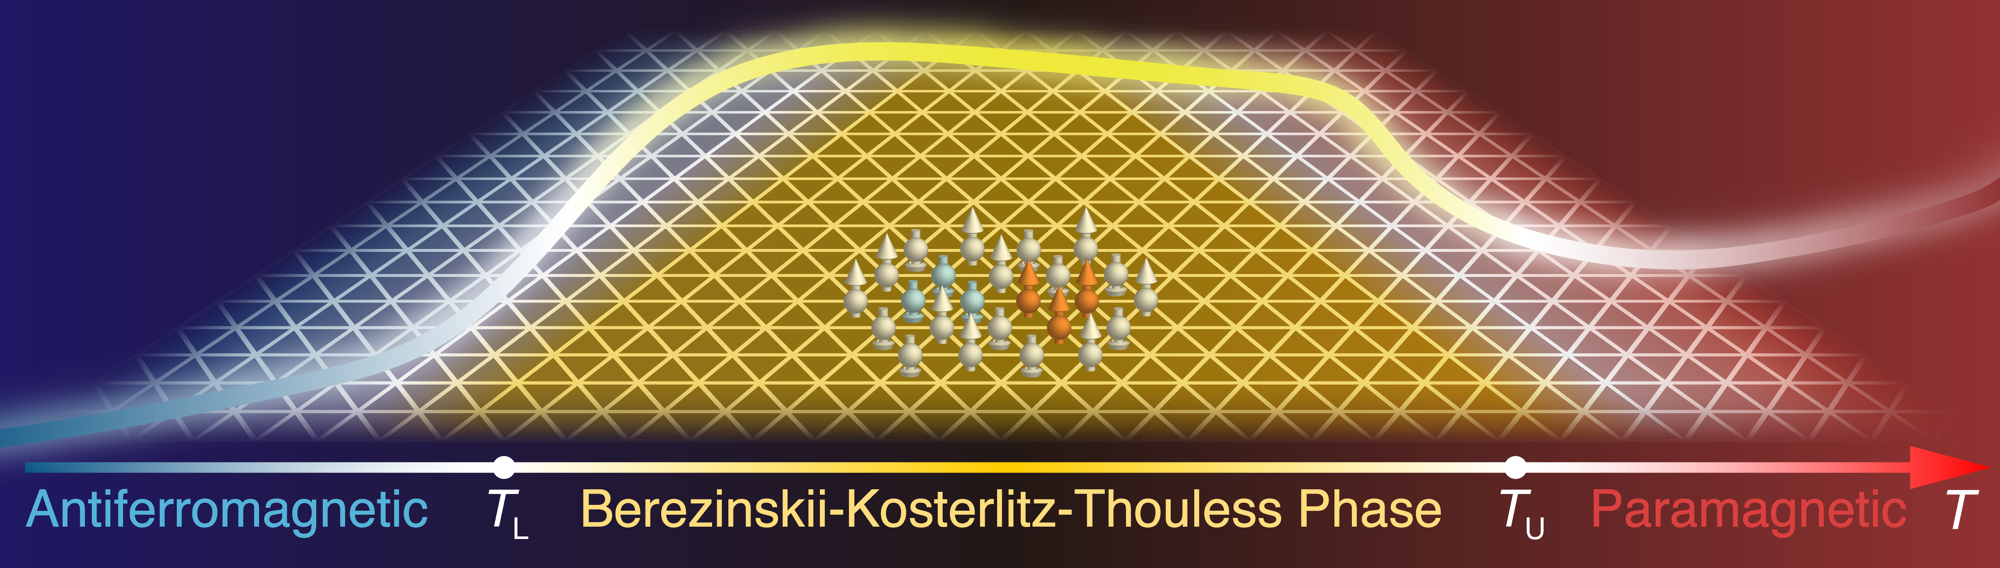
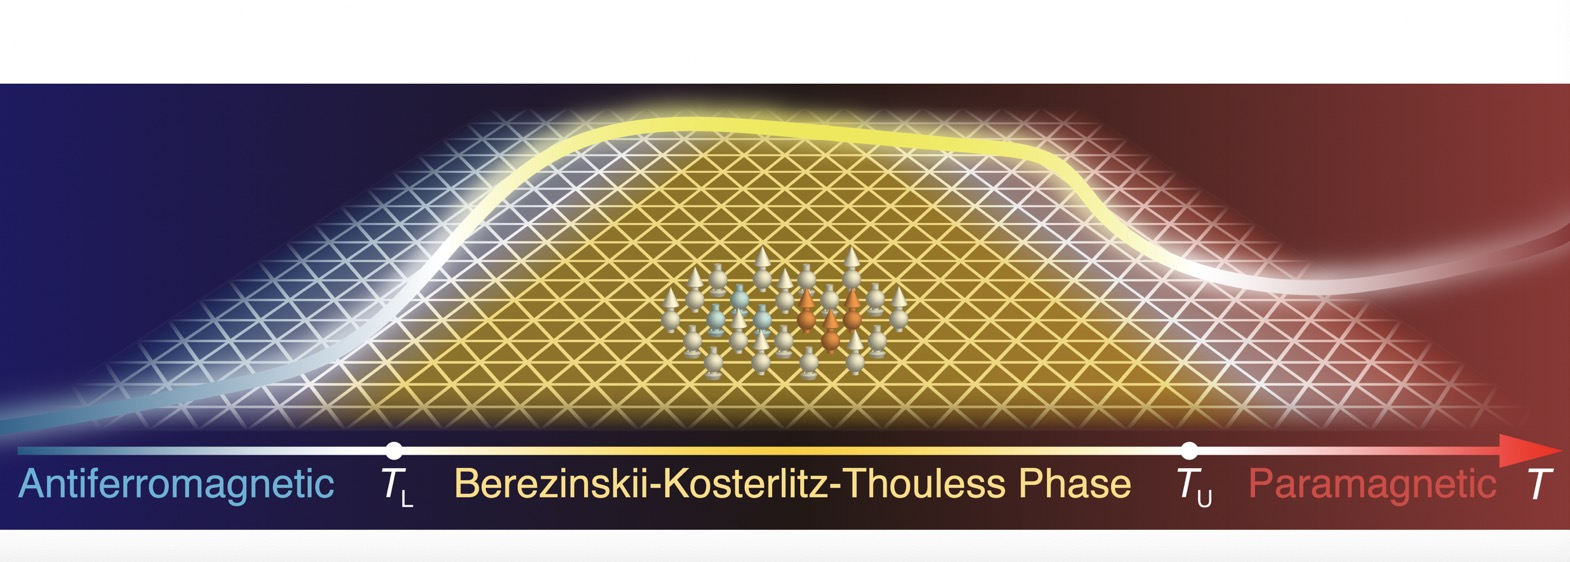
*

diff --git a/index.html b/index.html
@@ -988,7 +988,7 @@ Online registration: <a href="http://mt2020.yzu.edu.cn">http://mt2020.yzu.edu.cn
   
   
   <a href="/publication/li-2020-c/">
-      <img src="/publication/li-2020-c/featured_hufb139c4c5d171b8752871dffeaadfdd1_972919_918x517_fill_q90_lanczos_smart1_2.png" class="article-banner" alt="">
+      <img src="/publication/li-2020-c/featured_hubaae0ff782c8b75f8b806f4834290463_1615023_918x517_fill_q90_lanczos_smart1_2.png" class="article-banner" alt="">
   </a>
   
 
@@ -2216,7 +2216,7 @@ Online registration: <a href="http://mt2020.yzu.edu.cn">http://mt2020.yzu.edu.cn
     
     
     <a href="/publication/li-2020-c/" >
-      <img src="/publication/li-2020-c/featured_hufb139c4c5d171b8752871dffeaadfdd1_972919_150x0_resize_lanczos_2.png" alt="">
+      <img src="/publication/li-2020-c/featured_hubaae0ff782c8b75f8b806f4834290463_1615023_150x0_resize_lanczos_2.png" alt="">
     </a>
     
   </div>

diff --git a/publication/li-2020-c/index.html b/publication/li-2020-c/index.html
@@ -751,9 +751,9 @@
 </div>
 
 
-<div class="article-header article-container featured-image-wrapper mt-4 mb-4" style="max-width: 720px; max-height: 204px;">
+<div class="article-header article-container featured-image-wrapper mt-4 mb-4" style="max-width: 720px; max-height: 258px;">
   <div style="position: relative">
-    <img src="/publication/li-2020-c/featured_hufb139c4c5d171b8752871dffeaadfdd1_972919_720x0_resize_lanczos_2.png" alt="" class="featured-image">
+    <img src="/publication/li-2020-c/featured_hubaae0ff782c8b75f8b806f4834290463_1615023_720x0_resize_lanczos_2.png" alt="" class="featured-image">
     
   </div>
 </div>
